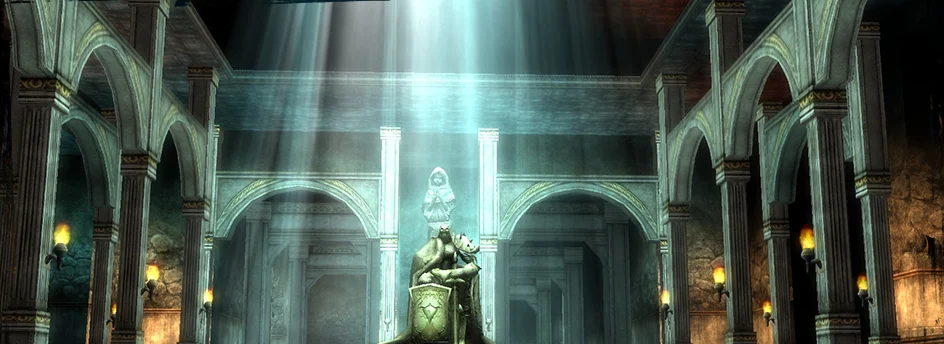
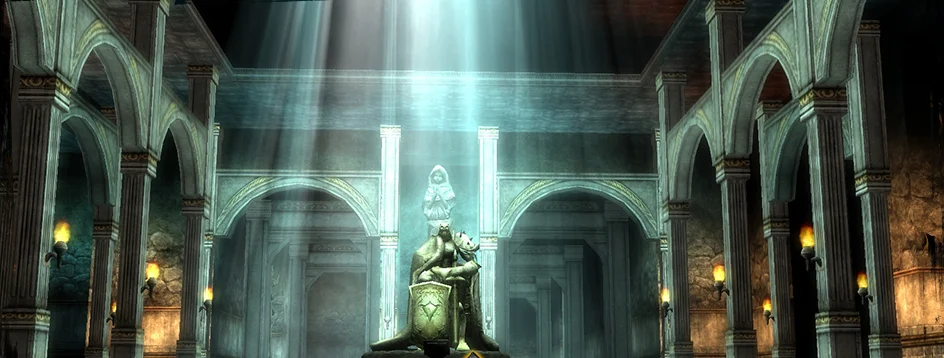
feat(dungeons): Ranking label, Monsters level, top 3 with the client trophy, uncut Belfist and Procyon art with the name under it
Claude-Session: https://claude.ai/code/session_01DaBhhCgVGefmriEEJNqYK8

diff --git a/src/ui/dungeons/Dungeons.tsx b/src/ui/dungeons/Dungeons.tsx
@@ -29,6 +29,9 @@ import { BlessingEffects, DungeonBuffer } from './DungeonBuffer.tsx'
 import { DungeonMinimap } from './DungeonMinimap.tsx'
 import './dungeons.css'
 
+/** Bumped when the dungeon art is cut again (dungeon-art.mjs), past the PWA's cached copy. */
+const ART_VERSION = 2
+
 const minutes = (seconds: number) =>
   `${Math.floor(seconds / 60)}:${String(Math.floor(seconds % 60)).padStart(2, '0')}`
 const errorText = (error: unknown) =>
@@ -108,7 +111,7 @@ export function DungeonsPanel({ onClose }: { onClose(): void }) {
           <strong>{(character.dungeons?.points ?? 0).toLocaleString('en-US')}</strong>
         </div>
         <div>
-          <span>Lifetime ranking points</span>
+          <span>Ranking</span>
           <strong>{(character.dungeons?.totalPoints ?? 0).toLocaleString('en-US')}</strong>
         </div>
       </div>
@@ -124,29 +127,32 @@ export function DungeonsPanel({ onClose }: { onClose(): void }) {
                 style={{ '--dungeon-color': def.color } as CSSProperties}
                 aria-label="Choose a dungeon"
               >
-                <img
-                  src={`${import.meta.env.BASE_URL}dungeons/${def.id}/loading.webp`}
-                  alt={`${def.name}, original client map artwork`}
-                />
-                <button
-                  type="button"
-                  className="dungeon-hero__arrow dungeon-hero__arrow--left"
-                  disabled={busy}
-                  onClick={() => turn(-1)}
-                  aria-label="Previous dungeon"
-                />
-                <button
-                  type="button"
-                  className="dungeon-hero__arrow dungeon-hero__arrow--right"
-                  disabled={busy}
-                  onClick={() => turn(1)}
-                  aria-label="Next dungeon"
-                />
+                <div className="dungeon-hero__art">
+                  <img
+                    src={`${import.meta.env.BASE_URL}dungeons/${def.id}/loading.webp?v=${ART_VERSION}`}
+                    alt={`${def.name}, original client map artwork`}
+                  />
+                  <button
+                    type="button"
+                    className="dungeon-hero__arrow dungeon-hero__arrow--left"
+                    disabled={busy}
+                    onClick={() => turn(-1)}
+                    aria-label="Previous dungeon"
+                  />
+                  <button
+                    type="button"
+                    className="dungeon-hero__arrow dungeon-hero__arrow--right"
+                    disabled={busy}
+                    onClick={() => turn(1)}
+                    aria-label="Next dungeon"
+                  />
+                  {locked && <span className="dungeon-hero__lock">Lv {def.minLevel}</span>}
+                </div>
+                {/* the name under the art, so the hall's statues are not hidden behind it */}
                 <div className="dungeon-hero__caption" aria-live="polite">
                   <h3>{def.name}</h3>
                   <span>Horde expedition</span>
                 </div>
-                {locked && <span className="dungeon-hero__lock">Lv {def.minLevel}</span>}
               </div>
               <ol className="dungeon-pager" aria-label="Dungeons">
                 {DUNGEONS.map((d, i) => (
@@ -172,7 +178,7 @@ export function DungeonsPanel({ onClose }: { onClose(): void }) {
                   <dd className={locked ? 'is-bad' : 'is-good'}>Lv {def.minLevel}</dd>
                 </div>
                 <div>
-                  <dt>Original monsters</dt>
+                  <dt>Monsters level</dt>
                   <dd>
                     Lv {monsters[0]!.level}–{monsters.at(-1)!.level}
                   </dd>
@@ -222,12 +228,20 @@ export function DungeonsPanel({ onClose }: { onClose(): void }) {
               </section>
               <section className="dungeon-ranking" aria-label="Dungeon ranking">
                 <h4>Lifetime ranking</h4>
-                <ol className="dungeon-ranking__list">
+                {/* the three best characters, each with the client's trophy in its place's metal */}
+                <ol className="dungeon-podium">
                   {[...characters]
                     .sort((a, b) => (b.dungeons?.totalPoints ?? 0) - (a.dungeons?.totalPoints ?? 0))
-                    .map((c) => (
-                      <li key={c.id} className={c.id === character.id ? 'is-you' : undefined}>
-                        <span>{c.name}</span>
+                    .slice(0, 3)
+                    .map((c, i) => (
+                      <li
+                        key={c.id}
+                        className={`dungeon-podium__place dungeon-podium__place--${i + 1}${c.id === character.id ? ' is-you' : ''}`}
+                      >
+                        <span className="dungeon-podium__trophy" aria-label={`Place ${i + 1}`}>
+                          <span className="dungeon-podium__number">{i + 1}</span>
+                        </span>
+                        <span className="dungeon-podium__name">{c.name}</span>
                         <strong>
                           {(c.dungeons?.totalPoints ?? 0).toLocaleString('en-US')} points
                         </strong>
@@ -667,7 +681,7 @@ export function DungeonResult() {
         style={
           {
             '--dungeon-color': dungeon.color,
-            '--dungeon-art': `url(${import.meta.env.BASE_URL}dungeons/${dungeon.id}/loading.webp)`,
+            '--dungeon-art': `url(${import.meta.env.BASE_URL}dungeons/${dungeon.id}/loading.webp?v=${ART_VERSION})`,
           } as CSSProperties
         }
       >

diff --git a/src/ui/dungeons/dungeons.css b/src/ui/dungeons/dungeons.css
@@ -48,29 +48,27 @@
   background: #11161a;
   overflow: hidden;
 }
-.dungeon-hero img {
+.dungeon-hero__art {
+  position: relative;
+}
+.dungeon-hero__art img {
   display: block;
   width: 100%;
-  /* a little taller than the art, the bottom under the caption */
-  aspect-ratio: 944 / 400;
+  aspect-ratio: 944 / 358;
   object-fit: cover;
-  object-position: 50% 30%;
 }
 .dungeon-hero__caption {
-  position: absolute;
-  left: 0;
-  right: 0;
-  bottom: 0;
-  padding: 26px 46px 8px;
+  position: relative;
+  padding: 7px 12px 8px;
   text-align: center;
-  background: linear-gradient(to top, #0c1014f2 30%, #0c101400);
-  pointer-events: none;
+  background: linear-gradient(#0c1014, #151b20);
+  border-top: 1px solid #00000080;
 }
 .dungeon-hero__caption h3 {
   margin: 0;
   color: #f4e2b4;
   font-family: var(--font-heading);
-  font-size: clamp(20px, 5vw, 28px);
+  font-size: clamp(20px, 5vw, 26px);
   line-height: 1.15;
   text-shadow: 0 2px 6px #000;
 }
@@ -226,42 +224,55 @@
   background: #c9a868;
   transform: rotate(45deg);
 }
-.dungeon-ranking__list {
+/* the top three in the client's value boxes, the client trophy in gold, silver and bronze */
+.dungeon-podium {
   display: grid;
-  gap: 4px;
+  gap: 6px;
   margin: 0;
   padding: 0;
   list-style: none;
-  counter-reset: rank;
 }
-.dungeon-ranking__list li {
-  counter-increment: rank;
+.dungeon-podium__place {
   display: grid;
-  grid-template-columns: 22px minmax(0, 1fr) auto;
+  grid-template-columns: 34px minmax(0, 1fr) auto;
   align-items: center;
   gap: 8px;
-  padding: 5px 8px;
-  border: 1px solid #494d4c;
-  background: #171d25;
+  padding: 2px 6px 2px 2px;
+  border: solid transparent;
+  border-width: 5px 8px;
+  border-image: url('/ui/lc/value-box.webp') 4 8 fill / 5px 8px stretch;
   font-size: 13px;
 }
-.dungeon-ranking__list li::before {
-  content: counter(rank);
+.dungeon-podium__place.is-you .dungeon-podium__name {
+  color: #f2d58e;
+}
+.dungeon-podium__trophy {
+  position: relative;
+  width: 34px;
+  height: 32px;
+  background: url('/ui/lc/trophy.webp?v=27aab531') center / contain no-repeat;
+}
+.dungeon-podium__place--2 .dungeon-podium__trophy {
+  filter: grayscale(1) brightness(1.3) contrast(1.05);
+}
+.dungeon-podium__place--3 .dungeon-podium__trophy {
+  filter: sepia(0.7) saturate(1.6) hue-rotate(-18deg) brightness(0.8);
+}
+.dungeon-podium__number {
+  position: absolute;
+  right: -4px;
+  bottom: -3px;
   display: grid;
   place-items: center;
-  width: 20px;
-  height: 20px;
-  border-radius: 50%;
-  border: 1px solid #8d7a59;
-  color: #f2d58e;
-  font-size: 11px;
+  width: 16px;
+  height: 16px;
+  background: url('/ui/lc/badge.webp') center / 100% 100% no-repeat;
+  color: #fff;
+  font-size: 10px;
   font-weight: 800;
+  line-height: 1;
 }
-.dungeon-ranking__list li.is-you {
-  border-color: #a88a5c;
-  background: #2a2a24;
-}
-.dungeon-ranking__list span {
+.dungeon-podium__name {
   overflow: hidden;
   text-overflow: ellipsis;
   white-space: nowrap;
